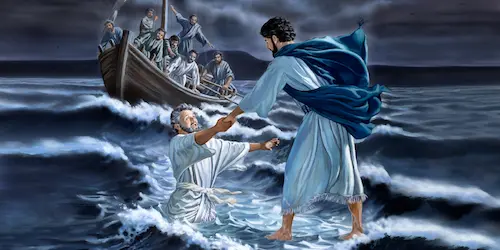
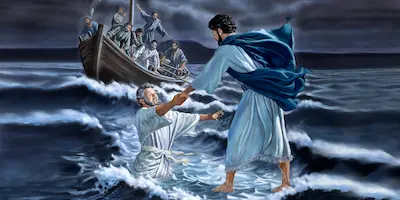
Moved images to html from css background images

diff --git a/wwr/contact.html b/wwr/contact.html
@@ -39,12 +39,14 @@
                 <p>Email: downtheriver@gmail.com</p>
                 <p>Find Us: 111 Iron Rock Road, Wilson, Wyoming 83001</p>
                 </div>
-                <h2 class="staff">Our Experienced  Staff:</h2>
+                <h2 class="staff">Our Very Experienced  Staff:</h2>
                 <iframe src="https://www.google.com/maps/embed?pb=!1m18!1m12!1m3!1d20952.706723807325!2d-110.85376366822474!3d43.498437962427474!2m3!1f0!2f0!3f0!3m2!1i1024!2i768!4f13.1!3m3!1m2!1s0x5353103e1e66b6e5%3A0xe1a4db173730ba0a!2sIron%20Rock%20Rd%2C%20Wyoming%2083001!5e1!3m2!1sen!2sus!4v1754014469187!5m2!1sen!2sus" width="500" height="450" allowfullscreen="" loading="lazy" referrerpolicy="no-referrer-when-downgrade"></iframe>
                         
                 <div class="container1">
                     <div class="card1">
-                        <div class="front1"></div>
+                        <div class="front1">
+                            <img src="/wwr/images/moses.webp" alt="Moses Tubing Guide" width="350">
+                        </div>
                         <div class="back1">
                             <h2>Moses: Head Tubing Guide</h2>
                             <p>Has a great deal of experience controlling water. He parted the Red Sea.                        </p>
@@ -88,7 +90,9 @@
 
                 <div class="container2">
                     <div class="card2">
-                        <div class="front2"></div>
+                        <div class="front2">
+                        <img src="/wwr/images/noah.webp" alt="Noah Assistant Tubing Guide" width="350">
+                        </div>
                         <div class="back2">
                             <h2>Noah: Assistant Tubing Guide</h2>
                             <p>Expert at remaining on the water for long periods of time. He was in the ark for more than a year.</p>
@@ -98,7 +102,9 @@
                 
                 <div class="container3">
                     <div class="card3">
-                        <div class="front3"></div>
+                        <div class="front3">
+                        <img src="/wwr/images/simon_peter.webp" alt="Simon Peter Assistant Tubing Guide" width="350">
+                        </div>
                         <div class="back3">
                             <h2>Simon Peter: Assistant Tubing Guide</h2>
                             <p>Up and coming assistant guide. This man can actualy walk on water.</p>

diff --git a/wwr/styles/contact.css b/wwr/styles/contact.css
@@ -89,7 +89,7 @@ h1 {
 }
 
 .company-information h2 {
-    text-align: center;;
+    text-align: left;
 }
 
 .contact-info h2 {
@@ -111,7 +111,7 @@ iframe {
 
 }
 .container1 {
-    width: 500px;
+    width: 350px;
     height: 200px;
     margin: 20px;
     perspective:800px;
@@ -140,9 +140,10 @@ iframe {
     backface-visibility: hidden;
 }
 
-.front1 {
-    background-image: url("/wwr/moses.webp");
-    background-repeat: no-repeat;
+.front1 img{
+    height: 100%;
+    width: auto;
+    border-radius: 2rem;
 }
 
 .back1  {
@@ -164,7 +165,7 @@ iframe {
 }
 
 .container2 {
-    width: 500px;
+    width: 350px;
     height: 200px;
     margin: 20px;
     perspective:800px;
@@ -193,9 +194,10 @@ iframe {
     backface-visibility: hidden;
 }
 
-.front2 {
-    background-image: url("/wwr/images/noah.webp");
-    background-repeat: no-repeat;
+.front2 img {
+    height: 100%;
+    width: 100%;
+    border-radius: 2rem;
 }
 
 .back2  {
@@ -217,7 +219,7 @@ iframe {
 }
 
 .container3 {
-    width: 500px;
+    width: 350px;
     height: 200px;
     margin: 20px;
     perspective:800px;
@@ -246,9 +248,10 @@ iframe {
     backface-visibility: hidden;
 }
 
-.front3 {
-    background-image: url("/wwr/images/simon_peter.webp");
-    background-repeat: no-repeat;
+.front3 img {
+    height: 100%;
+    width: auto;
+    border-radius: 2rem;
 }
 
 .back3  {
